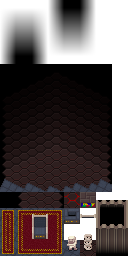
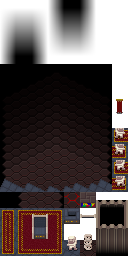
v4.0.0: improvements to caves & city boss visuals & city carpet texture

Changed region(s): [[0.875, 0.5, 1.0, 0.75], [0.9062, 0.375, 0.9688, 0.4688]]

diff --git a/core/src/main/java/com/shatteredpixel/shatteredpixeldungeon/levels/CityBossLevel.java b/core/src/main/java/com/shatteredpixel/shatteredpixeldungeon/levels/CityBossLevel.java
@@ -176,6 +176,8 @@ public class CityBossLevel extends Level {
 		Painter.set(this, pedestals[2], Terrain.PEDESTAL);
 		Painter.set(this, pedestals[3], Terrain.PEDESTAL);
 
+		Painter.fill(this, c.x, c.y+2, 1, 4, Terrain.EMPTY_SP);
+
 		Painter.set(this, c.x, arena.top, Terrain.LOCKED_DOOR);
 
 		//exit hallway
@@ -542,11 +544,39 @@ public class CityBossLevel extends Level {
 				if (map[i] == Terrain.PEDESTAL){
 					data[i] = 13*8 + 4;
 
-				//statues that should face left instead of right
-				} else if (map[i] == Terrain.STATUE && i%tileW > 7) {
-					data[i] = 15 * 8 + 4;
-					RaisedTerrainTilemap.skipCells.add(i);
-					GameScene.updateMap(i);
+				//statues
+				} else if (map[i] == Terrain.STATUE) {
+
+					//throne statues
+					if (i < tileW*32){
+						//facing left
+						if (i%tileW > 7) {
+							data[i] = 10 * 8 + 7;
+							RaisedTerrainTilemap.skipCells.add(i);
+							GameScene.updateMap(i);
+
+							i++;
+							data[i] = 11 * 8 + 7;
+							RaisedTerrainTilemap.skipCells.add(i);
+							GameScene.updateMap(i);
+
+						} else {
+							data[i] = 8 * 8 + 7;
+							i++;
+							data[i] = 9 * 8 + 7;
+						}
+					} else {
+
+						//regular statues facing left
+						if (i % tileW > 7) {
+							data[i] = 15 * 8 + 4;
+							RaisedTerrainTilemap.skipCells.add(i);
+							GameScene.updateMap(i);
+						} else {
+							data[i] = -1;
+						}
+
+					}
 
 				//carpet tiles
 				} else if (map[i] == Terrain.EMPTY_SP) {
@@ -568,8 +598,8 @@ public class CityBossLevel extends Level {
 						data[++i] = 15*8 + 2;
 						data[++i] = 15*8 + 3;
 
-					//otherwise entrance carpet
-					} else if (map[i-tileW] != Terrain.EMPTY_SP){
+					//otherwise entrance carpets
+					} else if (map[i-tileW] != Terrain.EMPTY_SP || map[i-2*tileW] == Terrain.CUSTOM_DECO){
 						data[i] = 13*8 + 0;
 					} else if (map[i+tileW] != Terrain.EMPTY_SP){
 						data[i] = 15*8 + 0;
@@ -577,8 +607,15 @@ public class CityBossLevel extends Level {
 						data[i] = 14*8 + 0;
 					}
 
-					//otherwise no tile here
+				//banners along walls
+				} else if (i < tileW*32 && map[i] == Terrain.WALL_DECO && map[i+tileW] != Terrain.WALL) {
+					data[i] = 6*8 + 7;
+				} else if (i < tileW*32 && map[i] == Terrain.EMPTY && map[i-tileW] == Terrain.WALL_DECO) {
+					data[i] = 7*8 + 7;
+
+				//otherwise no tile here
 				} else {
+
 					data[i] = -1;
 				}
 			}
@@ -597,7 +634,7 @@ public class CityBossLevel extends Level {
 					return Messages.get(HallsLevel.class, "statue_name");
 				}
 
-				//DK arena tiles
+			//DK arena tiles
 			} else {
 				if (Dungeon.level.map[cell] == Terrain.CUSTOM_DECO){
 					return Messages.get(CityBossLevel.class, "throne_name");

diff --git a/core/src/main/java/com/shatteredpixel/shatteredpixeldungeon/levels/CavesBossLevel.java b/core/src/main/java/com/shatteredpixel/shatteredpixeldungeon/levels/CavesBossLevel.java
@@ -656,8 +656,8 @@ public class CavesBossLevel extends Level {
 				-1,  7,  7,  7, -1,
 				-1,  1,  2,  3, -1,
 				 8,  1,  2,  3, 12,
-				16,  9, 10, 11, 20,
-				16, 16, 18, 20, 20,
+				30,  9, 10, 11, 31,
+				16, 16, 22, 20, 20,
 				16, 17, 18, 19, 20,
 				16, 16, 18, 20, 20,
 				16, 17, 18, 19, 20,
